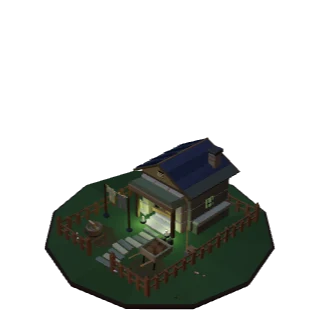
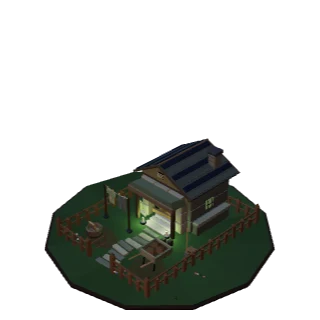
Cripta degli zombie col tetto come le altre case; niente pose sopra il Custode
- Tetto della cripta degli zombie: una falda per lato con le file parallele
  al colmo, come gableRoof (prima quattro fasce per lato davano l'effetto
  tegole a sinistra, e a destra la falda era girata e le file finivano
  sotto). Da rotta, sul lato destro manca ancora il pezzo verso il colmo.
  Anteprime rifatte.
- Posizionamento: un ingombro che non si calpesta (tombe, costruzioni,
  luci…) non si posa sopra il Custode: anteprima rossa, come su un posto
  occupato; vale per la posa, il tracciato e lo spostamento in Modifica.
  I sentieri e il resto calpestabile si possono ancora posare sotto di lui.
- Rete di sicurezza: se il Custode si ritrova comunque in una cella
  bloccata, esce nella cella libera più vicina con una nuvoletta.

Claude-Session: https://claude.ai/code/session_01U6u5RojYrwYjZd8sSRU7em

diff --git a/Production/src/app/Game.ts b/Production/src/app/Game.ts
@@ -798,6 +798,8 @@ export class Game {
   private refreshWalkable() {
     const occ = buildOccupancy(this.state);
     this.actors.setWorld(areaForLevel(this.state.world.expansionLevel), (x, y) => occ.blocked.has(`${x},${y}`));
+    // se per qualsiasi via il Custode è rimasto dentro un ingombro, esce nella cella libera più vicina
+    if (this.actors.unstick() && this.sceneReady) this.effects.cloudPuff(this.actors.avatar.pos.clone().setY(this.groundAt(this.actors.avatar.pos)));
   }
 
   private collectNearbyWisps() {
@@ -985,6 +987,16 @@ export class Game {
     return { x: c.x + 2, y: c.y };
   }
 
+  /**
+   * Un ingombro che non si calpesta (tombe, costruzioni, luci…) non si posa sopra il Custode:
+   * lo chiuderebbe dentro. `type` assente: una tomba. I sentieri e il resto calpestabile sì.
+   */
+  private coversKeeper(type: string | null, x: number, y: number, fp: [number, number]): boolean {
+    if (type && CATALOG[type]?.walkable) return false;
+    const k = worldToCell(this.actors.avatar.pos);
+    return k.x >= x && k.x < x + fp[0] && k.y >= y && k.y < y + fp[1];
+  }
+
   startGravePlacement(draft: R.BurialDraft) {
     const occ = buildOccupancy(this.state);
     const c = this.placementOriginCell();
@@ -1076,7 +1088,8 @@ export class Game {
     if (!p) { this.world.hideGhost(); this.ui.refreshPlacementBar(); return; }
     if (p.trace) {
       const cells = this.traceCells();
-      const status = R.traceStatus(this.state, p.type!, cells);
+      const status = R.traceStatus(this.state, p.type!, cells)
+        .map((st, i) => (st === 'ok' && this.coversKeeper(p.type!, cells[i].x, cells[i].y, rotatedFootprint(p.type!, cells[i].rot)) ? 'busy' : st));
       const turn = !!CATALOG[p.type!].rotatable;
       const v: PVis = { type: p.type!, variant: 0, dirty: false, broken: false, lit: true, seed: 0 };
       this.world.showTrace(placeableKey(v), () => getModel(placeableKey(v)),
@@ -1086,7 +1099,8 @@ export class Game {
       return;
     }
     const fp = this.placementFp();
-    p.valid = canPlaceAt(p.x, p.y, fp, buildOccupancy(this.state), areaForLevel(this.state.world.expansionLevel));
+    p.valid = canPlaceAt(p.x, p.y, fp, buildOccupancy(this.state), areaForLevel(this.state.world.expansionLevel))
+      && !this.coversKeeper(p.kind === 'grave' ? null : p.type!, p.x, p.y, fp);
     if (p.kind === 'grave') {
       const type = p.draft!.graveType!;
       const key = `g:${type}:clean:0`;
@@ -2008,7 +2022,9 @@ export class Game {
       this.refreshPlacement();
       return;
     }
-    const valid = canPlaceAt(nx, ny, fp, buildOccupancy(this.state, id), areaForLevel(this.state.world.expansionLevel));
+    const moved = this.state.placeables.find((q) => q.id === id);
+    const valid = canPlaceAt(nx, ny, fp, buildOccupancy(this.state, id), areaForLevel(this.state.world.expansionLevel))
+      && !this.coversKeeper(moved ? moved.type : null, nx, ny, fp);
     this.drag.x = nx; this.drag.y = ny; this.drag.valid = valid;
     this.world.previewMove(id, nx, ny, valid);
     this.refreshKeeperArea();

diff --git a/Production/src/render/lowpoly/cryptBuildings.ts b/Production/src/render/lowpoly/cryptBuildings.ts
@@ -55,14 +55,19 @@ function portal(c: CryptCtx, { color = CP.pale as string, width = 1.12, height =
   }
 }
 
-/** Falda del tetto tra due punti del profilo (x, y), lunga `d` in z, con le file di lastre. */
+/**
+ * Falda del tetto tra due punti del profilo (x, y), lunga `d` in z (il colmo corre lungo z): come
+ * gableRoof, una lastra con sopra le file parallele al colmo, a passo fisso lungo la falda.
+ */
 function roofBand(c: CryptCtx, xa: number, ya: number, xb: number, yb: number, zc: number, d: number, color: string, dark: string) {
   const { lp } = c;
+  // sempre da sinistra a destra: girata al contrario la falda finiva a testa in giù e le file sotto
+  if (xb < xa) [xa, ya, xb, yb] = [xb, yb, xa, ya];
   const len = Math.hypot(xb - xa, yb - ya);
   lp.push([(xa + xb) / 2, (ya + yb) / 2, zc], 0, 0, Math.atan2(yb - ya, xb - xa));
   lp.box(0, -0.035, 0, len + 0.01, 0.07, d, color, { bevel: 0.01, vary: 0.04, ao: 0.1 });
-  const rows = Math.max(3, Math.round(d / 0.3));
-  for (let i = 0; i < rows; i++) lp.box(lp.rng.range(-0.015, 0.015), 0.03, -d / 2 + (i + 0.5) * (d / rows), len - 0.04, 0.03, (d / rows) * 0.7, i % 2 ? color : dark, { bevel: 0.006, vary: 0.08, ao: 0 });
+  const rows = Math.max(1, Math.round(len / 0.24));
+  for (let i = 0; i < rows; i++) lp.box(-len / 2 + (i + 0.5) * (len / rows), 0.03, lp.rng.range(-0.015, 0.015), (len / rows) * 0.7, 0.03, d - 0.04, i % 2 ? color : dark, { bevel: 0.006, vary: 0.08, ao: 0 });
   lp.pop();
 }
 
@@ -75,12 +80,15 @@ const roofH = (x: number) => (x < -0.14 ? 2.1 - ((-0.14 - x) / 0.98) * 0.59 : 2.
 function cottageRoof(c: CryptCtx) {
   const { lp, v } = c;
   const ridge = -0.14;
-  const tiles = [pick(c, '#3b4352', '#50584f', '#514b46'), '#3e4655', '#39414f', '#414958'];
-  for (let side = 0; side < 2; side++) for (let col = 0; col < 4; col++) {
+  // una falda per lato, come i tetti delle altre case (da rotta, sul lato destro manca un pezzo verso il colmo)
+  const roof = pick(c, '#3b4352', '#50584f', '#514b46');
+  for (let side = 0; side < 2; side++) {
     const edge = side ? 1.12 : -1.12;
-    const xa = edge + (ridge - edge) * (col / 4), xb = edge + (ridge - edge) * ((col + 1) / 4);
-    const short = v.broken && side === 1 && col > 0;
-    roofBand(c, xa, roofH(xa), xb, roofH(xb), short ? -0.7 : -0.28, short ? 1.2 : 2.04, tiles[col], LPC.roofDark);
+    if (v.broken && side === 1) {
+      const xm = edge + (ridge - edge) * 0.25;
+      roofBand(c, edge, roofH(edge), xm, roofH(xm), -0.28, 2.04, roof, LPC.roofDark);
+      roofBand(c, xm, roofH(xm), ridge, roofH(ridge), -0.7, 1.2, roof, LPC.roofDark);
+    } else roofBand(c, edge, roofH(edge), ridge, roofH(ridge), -0.28, 2.04, roof, LPC.roofDark);
   }
   beam(lp, [ridge, 2.125, -1.33], [ridge, 2.125, 0.79], 0.036, '#706249');
   for (const z of [-1.32, 0.77]) for (const edge of [-1.14, 1.14]) {

diff --git a/Production/src/view/Actors.ts b/Production/src/view/Actors.ts
@@ -536,6 +536,25 @@ export class Actors {
 
   teleport(p: THREE.Vector3) { this.avatar.pos.copy(p); this.avatar.path = []; }
 
+  /**
+   * Il Custode è su una cella dove non si può stare (ci è stato posato sopra qualcosa)?
+   * Lo porta nella cella libera più vicina, a cerchi crescenti. Ritorna true se l'ha spostato.
+   */
+  unstick(): boolean {
+    const c = worldToCell(this.avatar.pos);
+    if (this.canGo(c.x, c.y)) return false;
+    for (let r = 1; r <= 12; r++) {
+      let best: Cell | null = null, bestD = Infinity;
+      for (let dy = -r; dy <= r; dy++) for (let dx = -r; dx <= r; dx++) {
+        if (Math.max(Math.abs(dx), Math.abs(dy)) !== r || !this.canGo(c.x + dx, c.y + dy)) continue;
+        const d = dx * dx + dy * dy;
+        if (d < bestD) { bestD = d; best = { x: c.x + dx, y: c.y + dy }; }
+      }
+      if (best) { this.teleport(cellCenter(best.x, best.y, [1, 1])); this.arrive = null; return true; }
+    }
+    return false;
+  }
+
   // ── Bicicletta ───────────────────────────────────────────────────────
 
   private ride: Ride | null = null;
